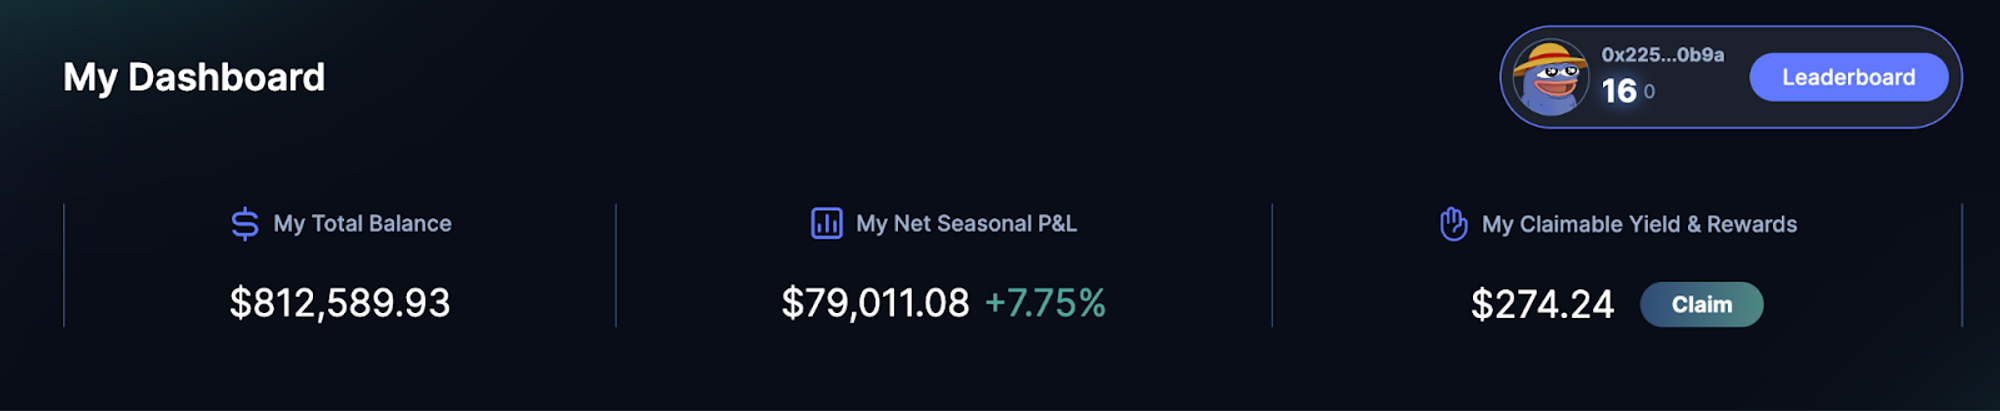
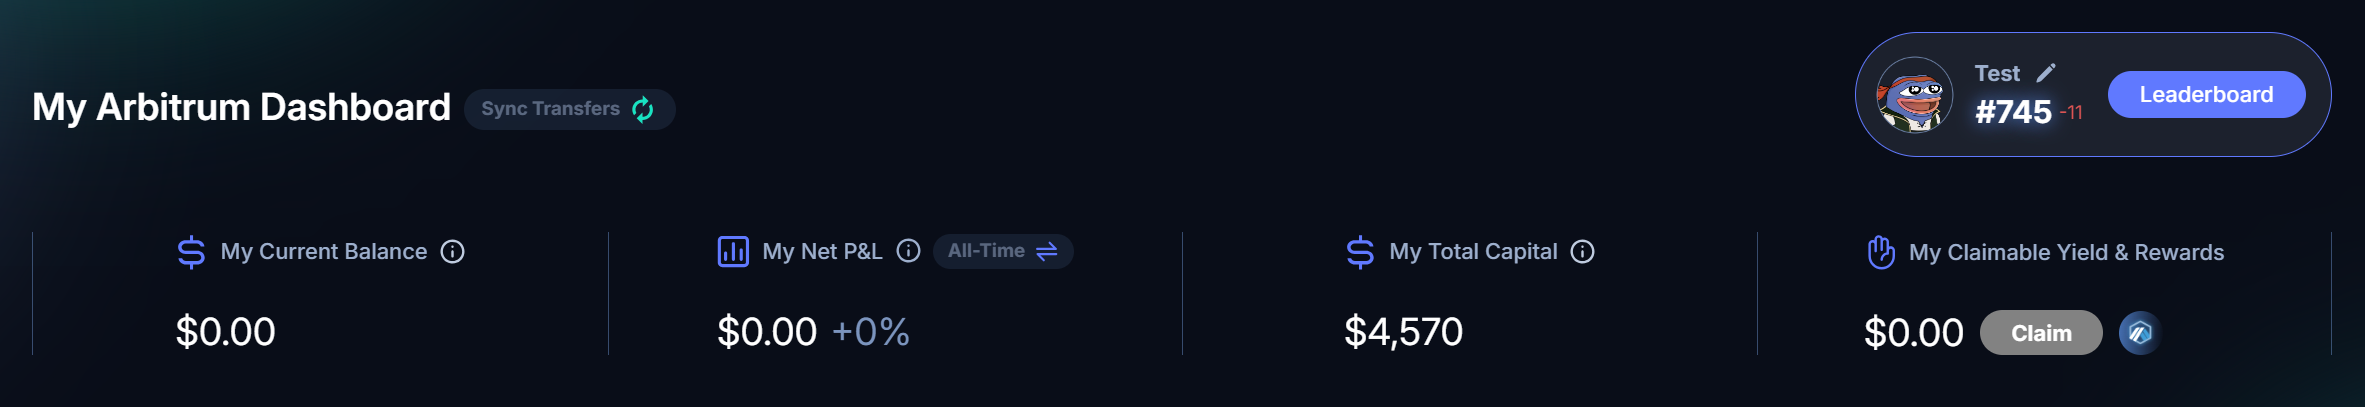
added sync transfers

diff --git a/docs/AppGuide/Trade/Guides/Dashboard.md b/docs/AppGuide/Trade/Guides/Dashboard.md
@@ -27,7 +27,10 @@ All of the accrued yield and rewards from YT and LP that can be [claimed](https:
 
 Shows your P&L ranking compared to other yield traders on the Seasonal Leaderboard. Note that only rankings ≥1000 will be shown. You can access the Leaderboard by clicking the button [here](https://app.pendle.finance/trade/dashboard/leaderboard/valuation).
 
-All of the figures shown are applicable to the selected chain only. You can switch the display by simply connecting to a different network (e.g. switching from Ethereum → Arbitrum) on the app.
+#### Transfer Events
+
+Asset Transfers to and from external parties or wallets, including deposit to liquid staking and money markets, are not synced in real time; instead, a global sync takes place periodically. 
+You can manually trigger a sync event on your own wallet using the `Sync Transfers` button, with usage limited to once every hour. 
 
 ## All My Positions
 
